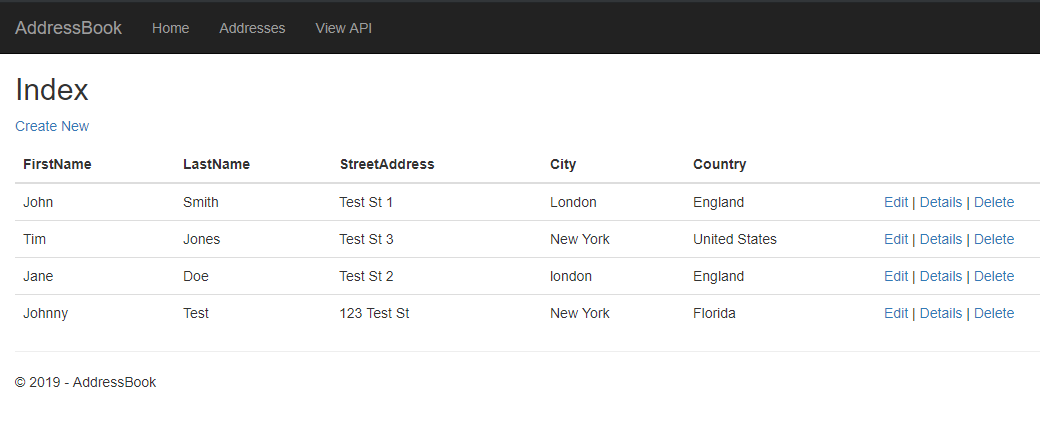
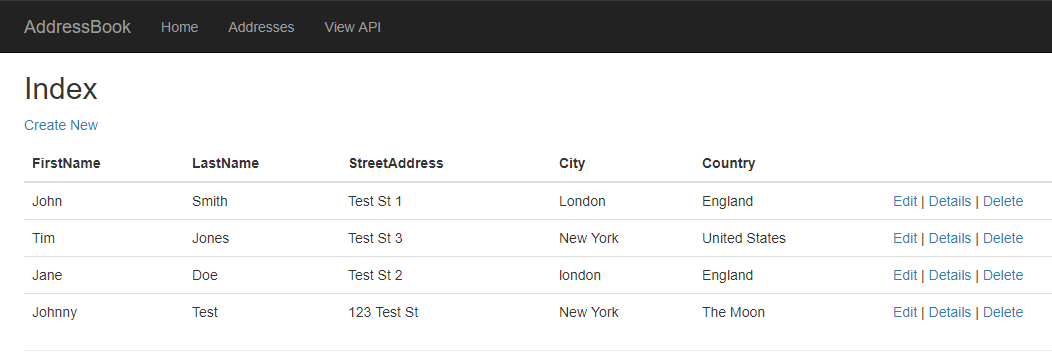
📇 Updated Readme example to be more clear

diff --git a/README.md b/README.md
@@ -45,7 +45,7 @@ Example of a GET response to /api/Addresses/AddressesByCity
       "lastName": "Test",
       "streetAddress": "123 Test St",
       "city": "New York",
-      "country": "Florida"
+      "country": "The Moon"
     }
   ]
 ]
